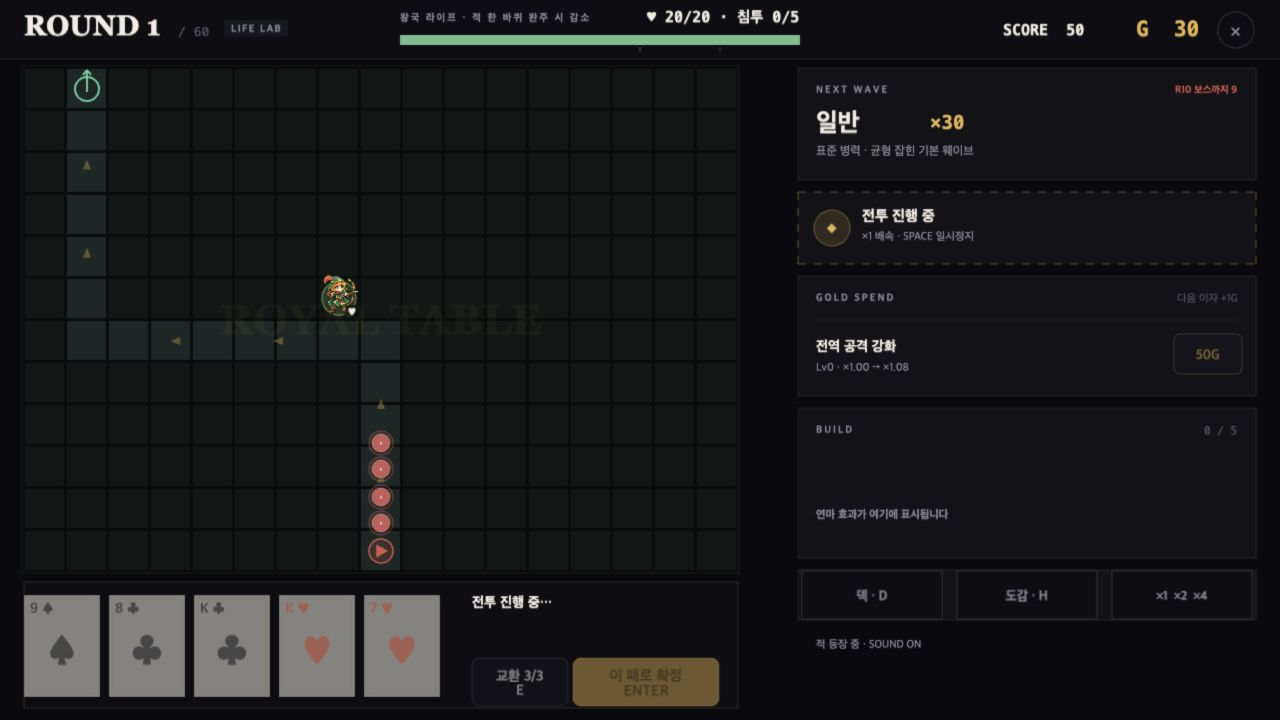
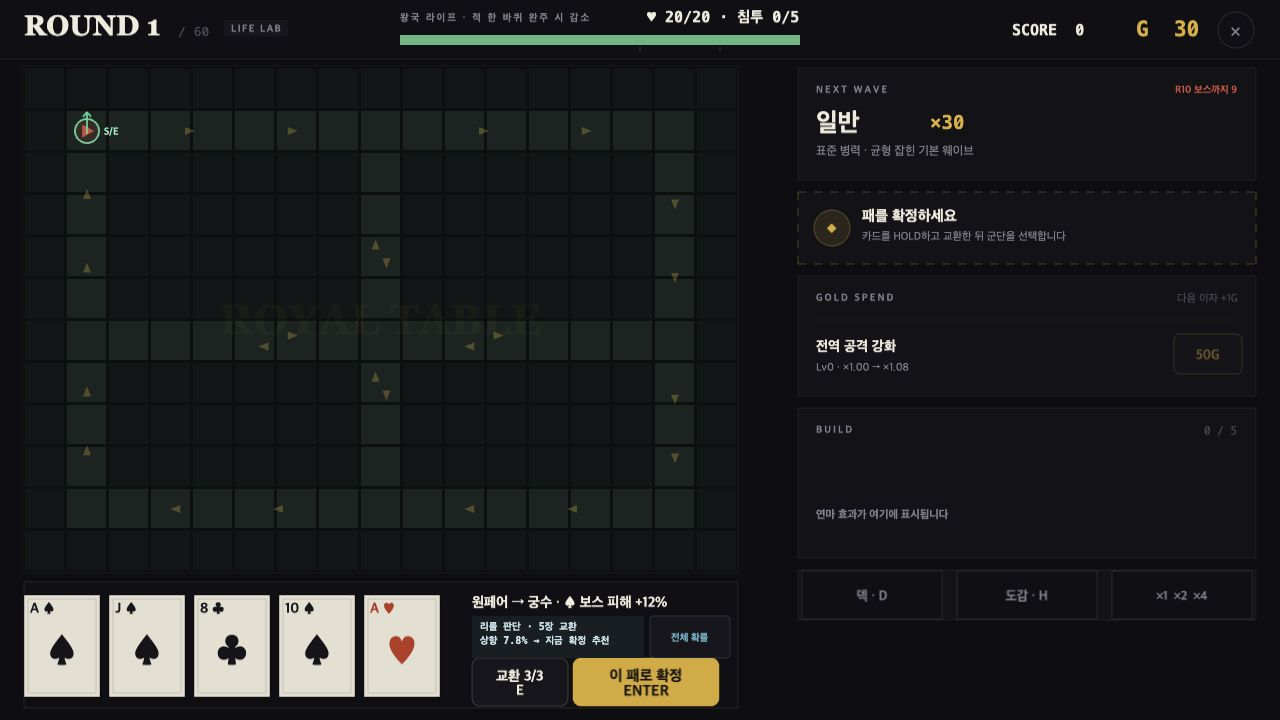
fix: match life lab cross-road route

diff --git a/src/game/FieldRenderer.ts b/src/game/FieldRenderer.ts
@@ -296,14 +296,30 @@ export class FieldRenderer {
       }
     } else {
       g.fillStyle(UI.goldNum, 0.34);
+      const segmentKeys = corners.slice(0, -1).map((from, index) => {
+        const to = corners[index + 1];
+        const ends = [`${from.x},${from.y}`, `${to.x},${to.y}`].sort();
+        return `${ends[0]}:${ends[1]}`;
+      });
+      const segmentCounts = new Map<string, number>();
+      const segmentSeen = new Map<string, number>();
+      for (const key of segmentKeys) segmentCounts.set(key, (segmentCounts.get(key) ?? 0) + 1);
       for (let i = 0; i < corners.length - 1; i++) {
         const from = corners[i];
         const to = corners[i + 1];
         const dx = Math.sign(to.x - from.x);
         const dy = Math.sign(to.y - from.y);
+        const key = segmentKeys[i];
+        const occurrence = segmentSeen.get(key) ?? 0;
+        segmentSeen.set(key, occurrence + 1);
+        const repeated = (segmentCounts.get(key) ?? 0) > 1;
+        const laneOffset = repeated ? (occurrence === 0 ? -tile * 0.13 : tile * 0.13) : 0;
+        const [canonicalFrom, canonicalTo] = [from, to].sort((a, b) => a.x - b.x || a.y - b.y);
+        const canonicalDx = Math.sign(canonicalTo.x - canonicalFrom.x);
+        const canonicalDy = Math.sign(canonicalTo.y - canonicalFrom.y);
         for (const progress of [0.35, 0.7]) {
-          const cx = fieldX + (from.x + (to.x - from.x) * progress + 0.5) * tile;
-          const cy = fieldY + (from.y + (to.y - from.y) * progress + 0.5) * tile;
+          const cx = fieldX + (from.x + (to.x - from.x) * progress + 0.5) * tile - canonicalDy * laneOffset;
+          const cy = fieldY + (from.y + (to.y - from.y) * progress + 0.5) * tile + canonicalDx * laneOffset;
           const bx = cx - dx * 5;
           const by = cy - dy * 5;
           const px = -dy * 4;
@@ -336,6 +352,12 @@ export class FieldRenderer {
       g.lineBetween(exitX, exitY + 3, exitX, exitY - spawnRadius - 7);
       g.lineBetween(exitX, exitY - spawnRadius - 7, exitX - 4, exitY - spawnRadius - 2);
       g.lineBetween(exitX, exitY - spawnRadius - 7, exitX + 4, exitY - spawnRadius - 2);
+      this.scene.add.text(exitX + spawnRadius + 5, exitY, 'S/E', {
+        fontFamily: FONT,
+        fontSize: portrait ? '8px' : '10px',
+        fontStyle: 'bold',
+        color: '#9fe8c7',
+      }).setOrigin(0, 0.5).setDepth(1);
     }
     this.scene.add.text(fieldX + (GRID_W * tile) / 2, fieldY + (GRID_H * tile) / 2, 'ROYAL TABLE', {
       fontFamily: FONT_DISPLAY, fontSize: '42px', fontStyle: 'bold', color: UI.gold,

diff --git a/tests/map.test.ts b/tests/map.test.ts
@@ -41,25 +41,31 @@ describe('map & path', () => {
 describe('LIFE LAB cross-road map', () => {
   const mapId = 'cross-road' as const;
 
-  test('아래 중앙에서 진입해 중앙에서 좌회전한 뒤 왼쪽 위로 탈출한다', () => {
-    expect(pointAt(0, mapId)).toEqual(tileCenter(8, 11));
-    expect(pointAt(5 * TILE, mapId)).toEqual(tileCenter(8, 6));
-    expect(pointAt(12 * TILE, mapId)).toEqual(tileCenter(1, 6));
-    expect(pointAt(pathLength(mapId), mapId)).toEqual(tileCenter(1, 0));
+  test('외곽과 중앙 십자를 지정된 순서로 왕복해 왼쪽 상단으로 탈출한다', () => {
+    const waypoints: Array<[number, number, number]> = [
+      [0, 1, 1], [7, 8, 1], [16, 8, 10], [23, 1, 10], [27, 1, 6],
+      [41, 15, 6], [45, 15, 10], [52, 8, 10], [61, 8, 1],
+      [68, 15, 1], [73, 15, 6], [87, 1, 6], [92, 1, 1],
+    ];
+    for (const [distance, x, y] of waypoints) {
+      expect(pointAt(distance * TILE, mapId)).toEqual(tileCenter(x, y));
+    }
+    expect(pathLength(mapId)).toBe(92 * TILE);
   });
 
-  test('개방형 경로는 끝에서 시작점으로 순환하지 않는다', () => {
-    expect(pointAt(pathLength(mapId) + TILE, mapId)).toEqual(tileCenter(1, 0));
+  test('시작과 출구가 같은 포털이어도 완주 거리 이후에는 끝점에 고정된다', () => {
+    expect(pointAt(pathLength(mapId) + TILE, mapId)).toEqual(tileCenter(1, 1));
   });
 
-  test('중앙 통로와 좌측 출구는 배치할 수 없고 네 구역은 배치할 수 있다', () => {
+  test('외곽과 중앙 십자는 배치할 수 없고 네 구역 내부는 배치할 수 있다', () => {
     expect(isPathTile(8, 9, mapId)).toBe(true);
     expect(isPathTile(5, 6, mapId)).toBe(true);
     expect(isPathTile(1, 2, mapId)).toBe(true);
+    expect(isPathTile(15, 8, mapId)).toBe(true);
     expect(isPlaceable(5, 3, mapId)).toBe(true);
     expect(isPlaceable(12, 3, mapId)).toBe(true);
-    expect(isPlaceable(5, 9, mapId)).toBe(true);
-    expect(isPlaceable(12, 9, mapId)).toBe(true);
+    expect(isPlaceable(5, 8, mapId)).toBe(true);
+    expect(isPlaceable(12, 8, mapId)).toBe(true);
   });
 });
 

diff --git a/tests/game.test.ts b/tests/game.test.ts
@@ -5,7 +5,7 @@ import { spawnEnemy } from '../src/core/combat';
 import {
   START_GOLD, UNIT_CAP, SELL_REFUND, FIELD_CAP, COMBAT_MAX_TIME, LIFE_MODE_STARTING_LIVES,
 } from '../src/core/balance';
-import { PATH_LENGTH } from '../src/core/map';
+import { PATH_LENGTH, pathLength } from '../src/core/map';
 import { h } from './helpers';
 
 /** 라운드가 끝나 prep으로 돌아오거나 게임이 끝날 때까지 틱 진행 */
@@ -209,7 +209,7 @@ describe('Game state machine', () => {
     const g = new Game(204, 'life-economy');
     g.handConfirmed = true;
     expect(g.startCombat()).toBe(true);
-    spawnEnemy(g.field, 'normal', 1, { dist: PATH_LENGTH - 1 });
+    spawnEnemy(g.field, 'normal', 1, { dist: pathLength(g.mapId) - 1 });
 
     const result = g.tickCombat(1 / 30)!;
 
@@ -227,7 +227,7 @@ describe('Game state machine', () => {
     g.lives = 1;
     g.handConfirmed = true;
     g.startCombat();
-    for (let i = 0; i < 3; i++) spawnEnemy(g.field, 'tank', 12, { dist: PATH_LENGTH - 1 });
+    for (let i = 0; i < 3; i++) spawnEnemy(g.field, 'tank', 12, { dist: pathLength(g.mapId) - 1 });
 
     g.tickCombat(1 / 30);
 
@@ -243,13 +243,24 @@ describe('Game state machine', () => {
     g.round = 10;
     g.handConfirmed = true;
     g.startCombat();
-    spawnEnemy(g.field, 'boss', 10, { dist: PATH_LENGTH - 1 });
+    spawnEnemy(g.field, 'boss', 10, { dist: pathLength(g.mapId) - 1 });
 
     g.tickCombat(1 / 30);
 
     expect(g.lives).toBe(0);
     expect(g.breach).toBe(0);
     expect(g.defeatReason).toBe('life-depleted');
+  });
+
+  test('생명 모드는 일반 제한시간이 지나도 적이 처치되거나 탈출할 때까지 계속된다', () => {
+    const g = new Game(207, 'life-economy');
+    g.handConfirmed = true;
+    expect(g.startCombat()).toBe(true);
+    for (let i = 0; i < 30 * (10 + COMBAT_MAX_TIME); i++) g.tickCombat(1 / 30);
+
+    expect(g.phase).toBe('combat');
+    expect(g.combatTimeRemaining).toBeNull();
+    expect(g.field.enemies.some((enemy) => enemy.alive)).toBe(true);
   });
 
   test('60라운드 최종 보스를 처치하지 못하면 제한시간 후 패배', () => {

diff --git a/src/core/map.ts b/src/core/map.ts
@@ -26,12 +26,21 @@ const MAPS: Record<MapId, MapDefinition> = {
     loop: true,
   },
   'cross-road': {
-    // 스케치 기반: 아래 중앙 진입 → 중앙 교차로 → 왼쪽 → 위쪽 탈출.
+    // 네 구역의 외곽과 중앙 십자 통로를 순서대로 왕복하는 LIFE LAB 경로.
     corners: [
-      { x: 8, y: 11 },
-      { x: 8, y: 6 },
-      { x: 1, y: 6 },
-      { x: 1, y: 0 },
+      { x: 1, y: 1 },  // S: 왼쪽 상단
+      { x: 8, y: 1 },  // 중앙 상단
+      { x: 8, y: 10 }, // 중앙 하단
+      { x: 1, y: 10 }, // 왼쪽 하단
+      { x: 1, y: 6 },  // 왼쪽 중단
+      { x: 15, y: 6 }, // 오른쪽 중단
+      { x: 15, y: 10 }, // 오른쪽 하단
+      { x: 8, y: 10 }, // 중앙 하단 재진입
+      { x: 8, y: 1 },  // 중앙 상단 재진입
+      { x: 15, y: 1 }, // 오른쪽 상단
+      { x: 15, y: 6 }, // 오른쪽 중단 재진입
+      { x: 1, y: 6 },  // 왼쪽 중단 재진입
+      { x: 1, y: 1 },  // E: 왼쪽 상단
     ],
     loop: false,
   },

diff --git a/src/core/game.ts b/src/core/game.ts
@@ -560,6 +560,7 @@ export class Game {
   /** 모든 적 스폰이 끝난 뒤부터 흐르는 현재 라운드 제한시간. */
   get combatTimeRemaining(): number | null {
     if (this.phase !== 'combat' || this.spawnQueue.length > 0) return null;
+    if (this.lifeMode && this.round < ROUNDS) return null;
     const limit = this.round >= ROUNDS ? FINAL_BOSS_MAX_TIME : COMBAT_MAX_TIME;
     return Math.max(0, limit - this.combatTimer);
   }
@@ -748,7 +749,7 @@ export class Game {
           this.defeatReason = 'final-boss-timeout';
           this.phase = 'defeat';
         }
-      } else if (alive === 0 || this.combatTimer >= COMBAT_MAX_TIME) {
+      } else if (alive === 0 || (!this.lifeMode && this.combatTimer >= COMBAT_MAX_TIME)) {
         this.endRound();
       }
     }

diff --git a/src/game/SidePanel.ts b/src/game/SidePanel.ts
@@ -423,7 +423,9 @@ export class SidePanel {
       g.phase !== 'combat' ? ''
         : g.round >= ROUNDS
           ? remaining === null ? `최종 보스 등장 중 · 제한시간 ${FINAL_BOSS_MAX_TIME}초` : `최종 보스 제한시간 ${Math.ceil(remaining)}초`
-          : remaining === null ? `적 등장 중 · ${soundEnabled ? 'SOUND ON' : 'SOUND OFF'}` : `라운드 종료까지 ${Math.ceil(remaining)}초`,
+          : g.lifeMode && remaining === null
+            ? '전원 처치 또는 탈출까지 진행'
+            : remaining === null ? `적 등장 중 · ${soundEnabled ? 'SOUND ON' : 'SOUND OFF'}` : `라운드 종료까지 ${Math.ceil(remaining)}초`,
     );
 
     this.refreshInspector(selectedUnit, inPrep);

diff --git a/design-qa.md b/design-qa.md
@@ -5,16 +5,16 @@
 - Source pixels: 960 × 1280
 - Implementation pixels: 1280 × 720
 - CSS viewport: 1280 × 720, device scale factor 1
-- State: LIFE LAB, desktop, round 1 combat phase
+- State: LIFE LAB, desktop, round 1 preparation phase
 - Density normalization: conceptual route comparison only; the hand sketch is portrait paper and the game is a landscape canvas, so crops were not forced to identical aspect ratio.
 
 ## Full-view comparison evidence
 
-The two images were opened together in one comparison input. The implementation preserves the sketch's functional route: enemies enter at the bottom center, travel upward, turn left through the central lane, then travel upward along the left lane and exit at the top. The surrounding field remains divided into large usable placement regions by the road itself. The existing Royal Siege palette, grid, HUD, typography, and unit art are intentionally preserved instead of copying the paper styling.
+The two images were opened together in one comparison input after the route order was clarified. The implementation now forms four rectangular placement regions separated by a full outer road and central cross. Enemies start and exit at the same upper-left S/E portal, traverse all four sides, and reuse the center vertical and horizontal roads in opposite directions. The existing Royal Siege palette, grid, HUD, typography, and unit art are intentionally preserved instead of copying the paper styling.
 
 ## Focused region comparison evidence
 
-A separate crop was unnecessary because the full 17 × 12 field and all three route segments are clearly visible at 1280 × 720. Live combat was also observed through the lower vertical segment, center turn, left horizontal segment, and upper exit segment.
+A separate crop was unnecessary because the full 17 × 12 field, four placement regions, outer road, center cross, paired direction arrows, and S/E portal are clearly visible at 1280 × 720. Automated waypoint checks cover all 13 ordered turns; live combat confirmed the lower-left traversal and center-road reuse.
 
 ## Required fidelity surfaces
 
@@ -27,18 +27,21 @@ A separate crop was unnecessary because the full 17 × 12 field and all three ro
 ## Findings
 
 - No actionable P0/P1/P2 mismatch was found for the requested movement pattern.
-- P3 follow-up: the four placement regions could receive subtle zone names or borders if playtesting shows that players do not read them as separate tactical areas.
-- Balance note, not a visual mismatch: the new 18-tile open route is much shorter than the 46-tile classic ring and requires a separate tuning pass.
+- P3 follow-up: route order may still need numbered checkpoints if paired arrows alone are insufficient for first-time players.
+- Balance note, not a visual mismatch: the corrected route is 92 tiles versus the 46-tile classic ring and creates much longer repeated attack exposure.
 
 ## Comparison history
 
-- Initial pass: route geometry, direction markers, spawn/exit markers, placement rules, and live enemy turns all matched the functional intent. No P0/P1/P2 fixes were required after the comparison.
+- Initial pass: [P1] the sketch was misread as an 18-tile lower-center-to-upper-left route.
+- Clarified pass: replaced it with the exact 13-waypoint, 92-tile S/E route; added four placement regions, shared S/E portal, and offset arrows for opposite-direction road reuse.
+- Post-fix evidence: source and corrected implementation were opened together; no remaining P0/P1/P2 mismatch was found.
 
 ## Primary interactions tested
 
 - Started LIFE LAB.
 - Confirmed a hand and placed a unit beside the new route.
-- Started combat and observed enemy movement through both turns and the exit.
+- Started combat and observed the outer route and center-road reuse.
+- Confirmed LIFE LAB does not end at the old 32-second limit and instead waits for all enemies to die or escape.
 - Checked the in-app browser console at `/?experiment=life`; no errors or warnings were recorded.
 
 final result: passed

diff --git a/README.md b/README.md
@@ -10,7 +10,7 @@
 - 라이프 20, 일반 적의 침투 5칸당 −1, 보스 탈출 시 즉시 −3
 - 라운드당 무료 교환 3회, `날렵한 셔플` 등 교환 유물로 상한 증가
 - 이자 5%·기본 상한 25G 실험, 기존 강화·덱 개조·유물 구매 골드 소비처 유지
-- 스케치 기반 교차로 맵: 아래 중앙 진입 → 중앙 좌회전 → 왼쪽 위 탈출
+- 스케치 기반 교차로 맵: 왼쪽 상단 S/E에서 시작해 외곽과 중앙 십자를 양방향으로 순회
 - 적 이동·배치 금지·사거리·추천 배치·후방 진지 유물이 같은 LAB 경로 정의를 사용
 - LAB는 공개 실험 중이며 밸런스 확정 전, 루트 클래식 모드는 변경하지 않음
 
